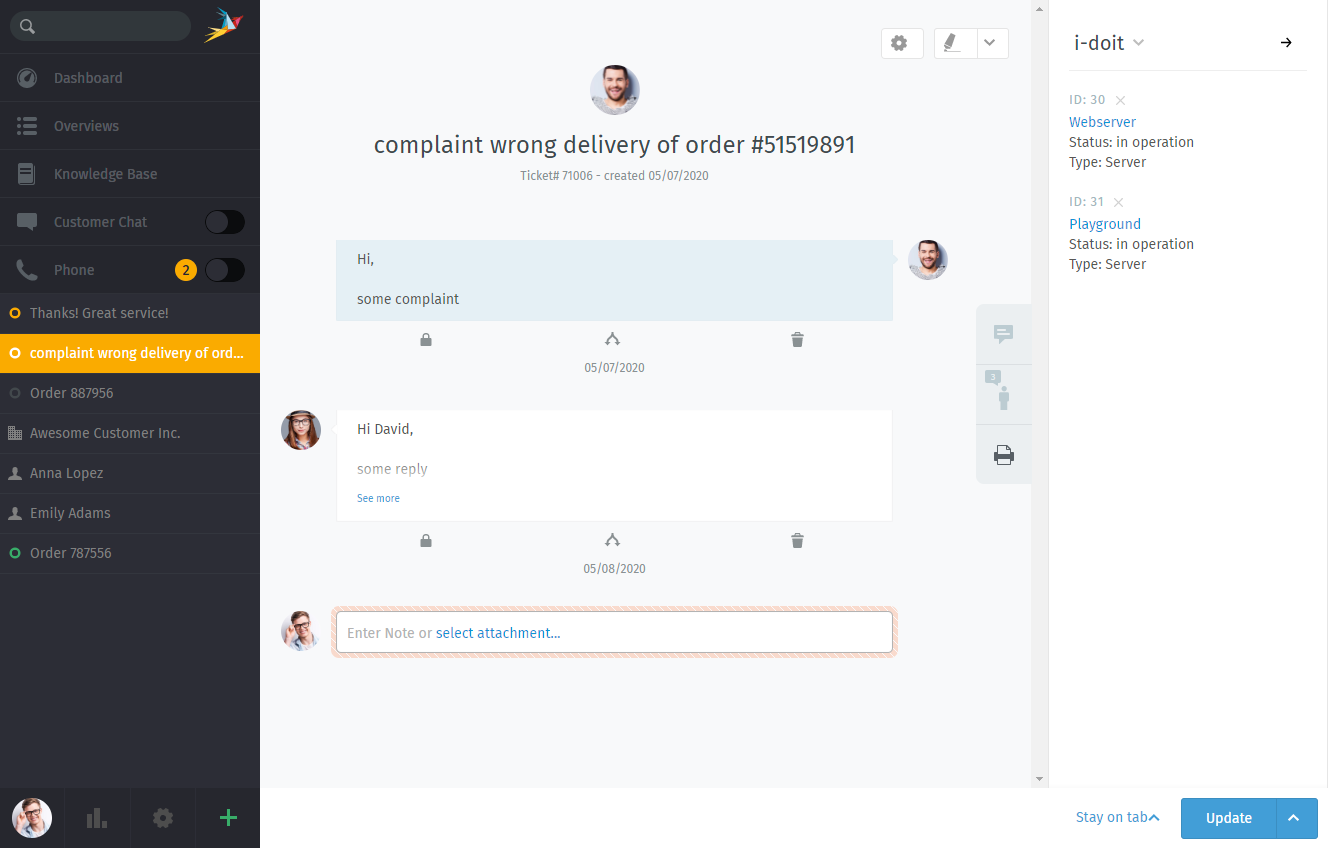
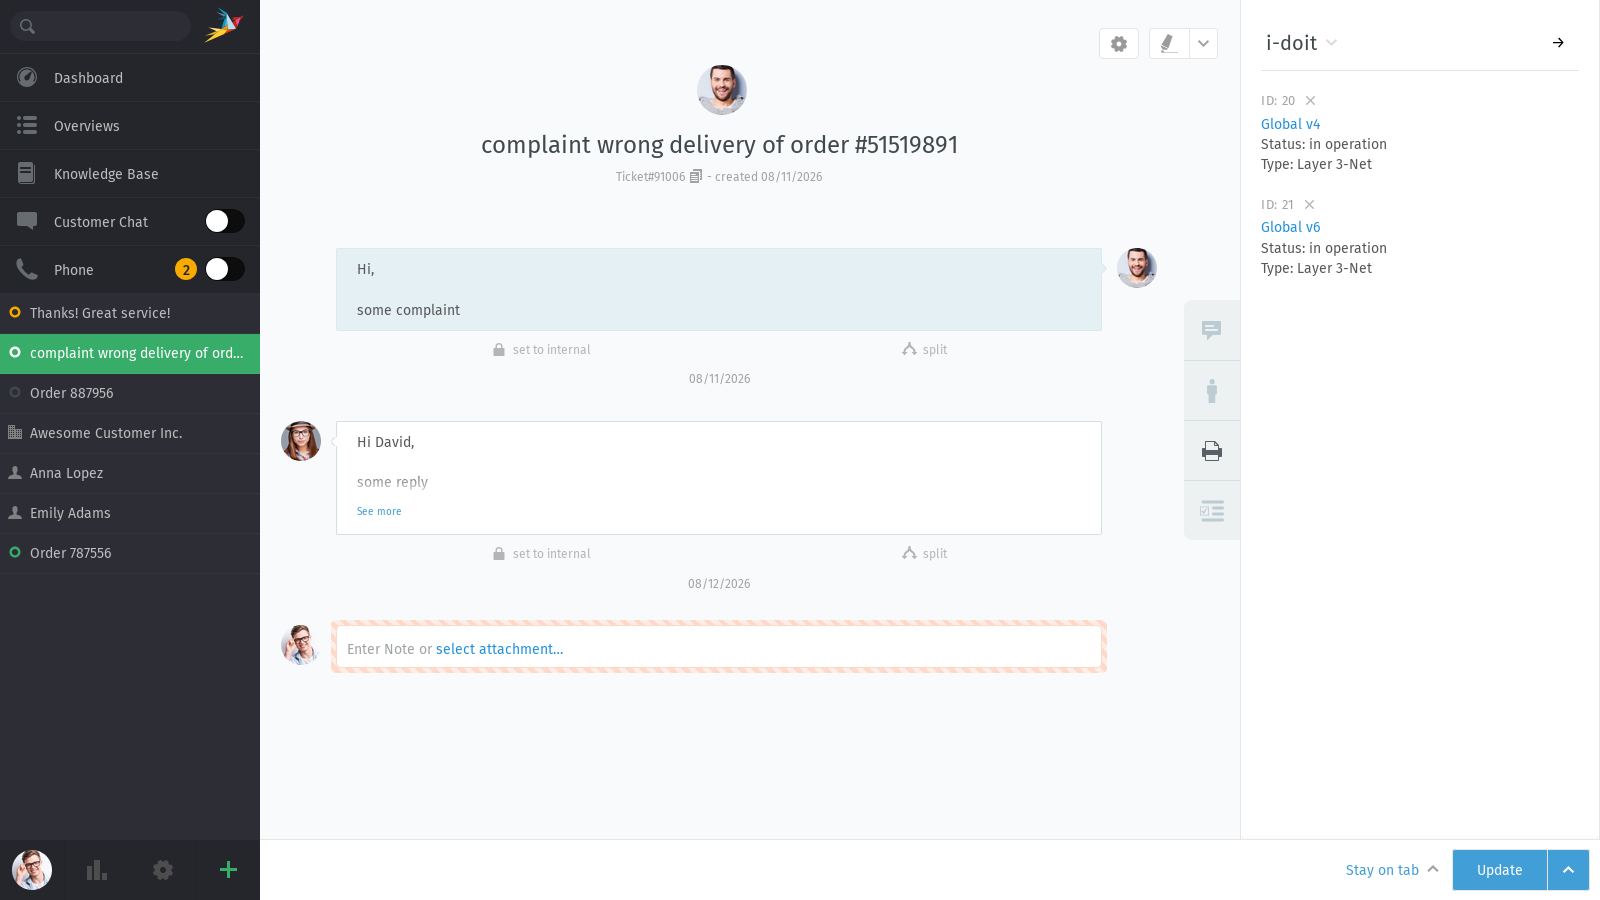
Fixes #566 - Overhaul the i-doit page
- Drop the screencasts and the emojis, keep one intro screenshot and add
  the object picker screenshot instead.
- Merge the four sections into two: linking objects in Zammad, listing
  and creating tickets in i-doit.
- Use i-doit's own terminology (objects, object types) instead of assets.
- Document the search limits, that the panel shows live i-doit data and
  that unlinking leaves the object untouched.

diff --git a/extras/i-doit-track-company-property.rst b/extras/i-doit-track-company-property.rst
@@ -4,10 +4,14 @@ i-doit: Track Company Property
 With the `i-doit <https://www.i-doit.com/>`_ integration, you can list which
 pieces of your company's property are related to any given ticket. That includes
 both physical and digital infrastructure, from servers to meeting rooms to
-virtual machines to software licenses.
+virtual machines to software licenses. It can help you keep track of
+troublesome equipment and find previous tickets about the last time an object
+caused problems.
 
 This feature is optional. If you don't see it in the ticket view, that means
-your administrator hasn't enabled it yet. Administrators can learn more in the
+your administrator hasn't enabled it yet. Zammad's ticket sidebar and the
+ticket list in i-doit are set up separately, so your administrator may enable
+one of them without the other. Administrators can learn more in the
 :admin-docs:`i-doit integration in the admin documentation </system/integrations/i-doit.html>`.
 If your company is using i-doit, ask your administrator / IT personnel to give
 you a tour. If your organization isn't already using i-doit, this guide is
@@ -18,61 +22,36 @@ not for you.
    :scale: 50%
    :align: center
 
-   Use the 🖨 **printer** tab to view or manage a ticket's assets from i-doit.
+   The **i-doit** panel in the ticket sidebar lists the objects linked to a
+   ticket.
 
+Link i-doit Objects to Tickets in Zammad
+----------------------------------------
 
-Why?
-----
+First, add i-doit objects to a ticket in the ticket sidebar. In the printer
+tab, select **Change Objects** in the **i-doit** panel, then filter by type and
+name. The search matches object names only and returns at most 10 results, so
+pick a type to narrow it down.
 
-i-doit can help you keep track of troublesome equipment and find previous
-tickets from the last time something went wrong with it.
-
-It's also a great way to document quirks in the company's belongings:
-Why haven't we upgraded this system from Windows Vista yet?
-What did we decide to do about that faulty network switch?
-And why does the coffee maker keep shutting off before it's finished? 🤬
-
-So How Does It Work?
---------------------
-
-In Zammad: Link i-doit Assets To Tickets
-^^^^^^^^^^^^^^^^^^^^^^^^^^^^^^^^^^^^^^^^
-
-First, add i-doit assets to a ticket in the ticket sidebar:
-
-.. figure:: /images/extras/i-doit-track-company-property/add-ticket-with-idoit-asset_via-zammad.gif
-   :alt: (Screencast) Create a new ticket and link it to an i-doit asset
+.. figure:: /images/extras/i-doit-track-company-property/asset-dialog.png
+   :alt: (Screenshot) The i-doit object picker with type filter and search field
    :align: center
 
-   Select *🖨 > i-doit > Change Objects*, then filter by category and/or name.
+   Select the objects to link, then use the ``Submit`` button.
 
-Once assets have been linked to a ticket, they can be accessed directly from the ticket view:
+Once objects have been linked to a ticket, click an object in the ticket
+sidebar to open its page in i-doit. The sidebar always shows the current data
+from i-doit: a renamed object appears under its new name, and an object deleted
+there drops off the list. Use the **Unlink object** icon next to an entry,
+which unlinks it from the ticket in Zammad and doesn't delete anything in
+i-doit.
 
-.. figure:: /images/extras/i-doit-track-company-property/quickjump-ticket-with-idoit-asset_via-zammad.gif
-   :alt: (Screencast) Access an i-doit asset directly from the Zammad ticket view
-   :align: center
+List & Create Tickets in i-doit
+-------------------------------
 
-   Click on a linked asset in the ticket sidebar to open its page in i-doit.
-
-In i-doit: List & Create Tickets For a Given Asset
-^^^^^^^^^^^^^^^^^^^^^^^^^^^^^^^^^^^^^^^^^^^^^^^^^^^
-
-Your i-doit control panel should contain
-a list of all the tickets associated with each asset:
-
-.. figure:: /images/extras/i-doit-track-company-property/quickjump-ticket-with-idoit-asset_via-idoit.gif
-   :alt: (Screencast) See a list of all tickets for an asset in i-doit
-   :align: center
-
-   Click the 💬 in the toolbar to list an asset's tickets.
-   Use the **🔗 Open in ticket system** button to open the ticket in Zammad.
-
-You can even launch Zammad's new ticket dialog directly from i-doit,
-with the asset already linked for you:
-
-.. figure:: /images/extras/i-doit-track-company-property/add-ticket-with-idoit-asset_via-idoit.gif
-   :alt: (Screencast) Launch the new ticket dialog from within i-doit
-   :align: center
-
-   Use the **📄 Create ticket** button in the asset ticket list
-   to start a new, pre-linked ticket dialog.
+In i-doit, an object's page should contain a list of all the tickets associated
+with it. Click **All Tickets** in the object toolbar to list them, then use the
+**Open in ticketsystem** link in a ticket row to open the ticket in Zammad. You
+can even launch Zammad's new ticket dialog directly from i-doit, with the
+object already linked. Use **Create ticket** in the **All Tickets** panel to
+start it.
